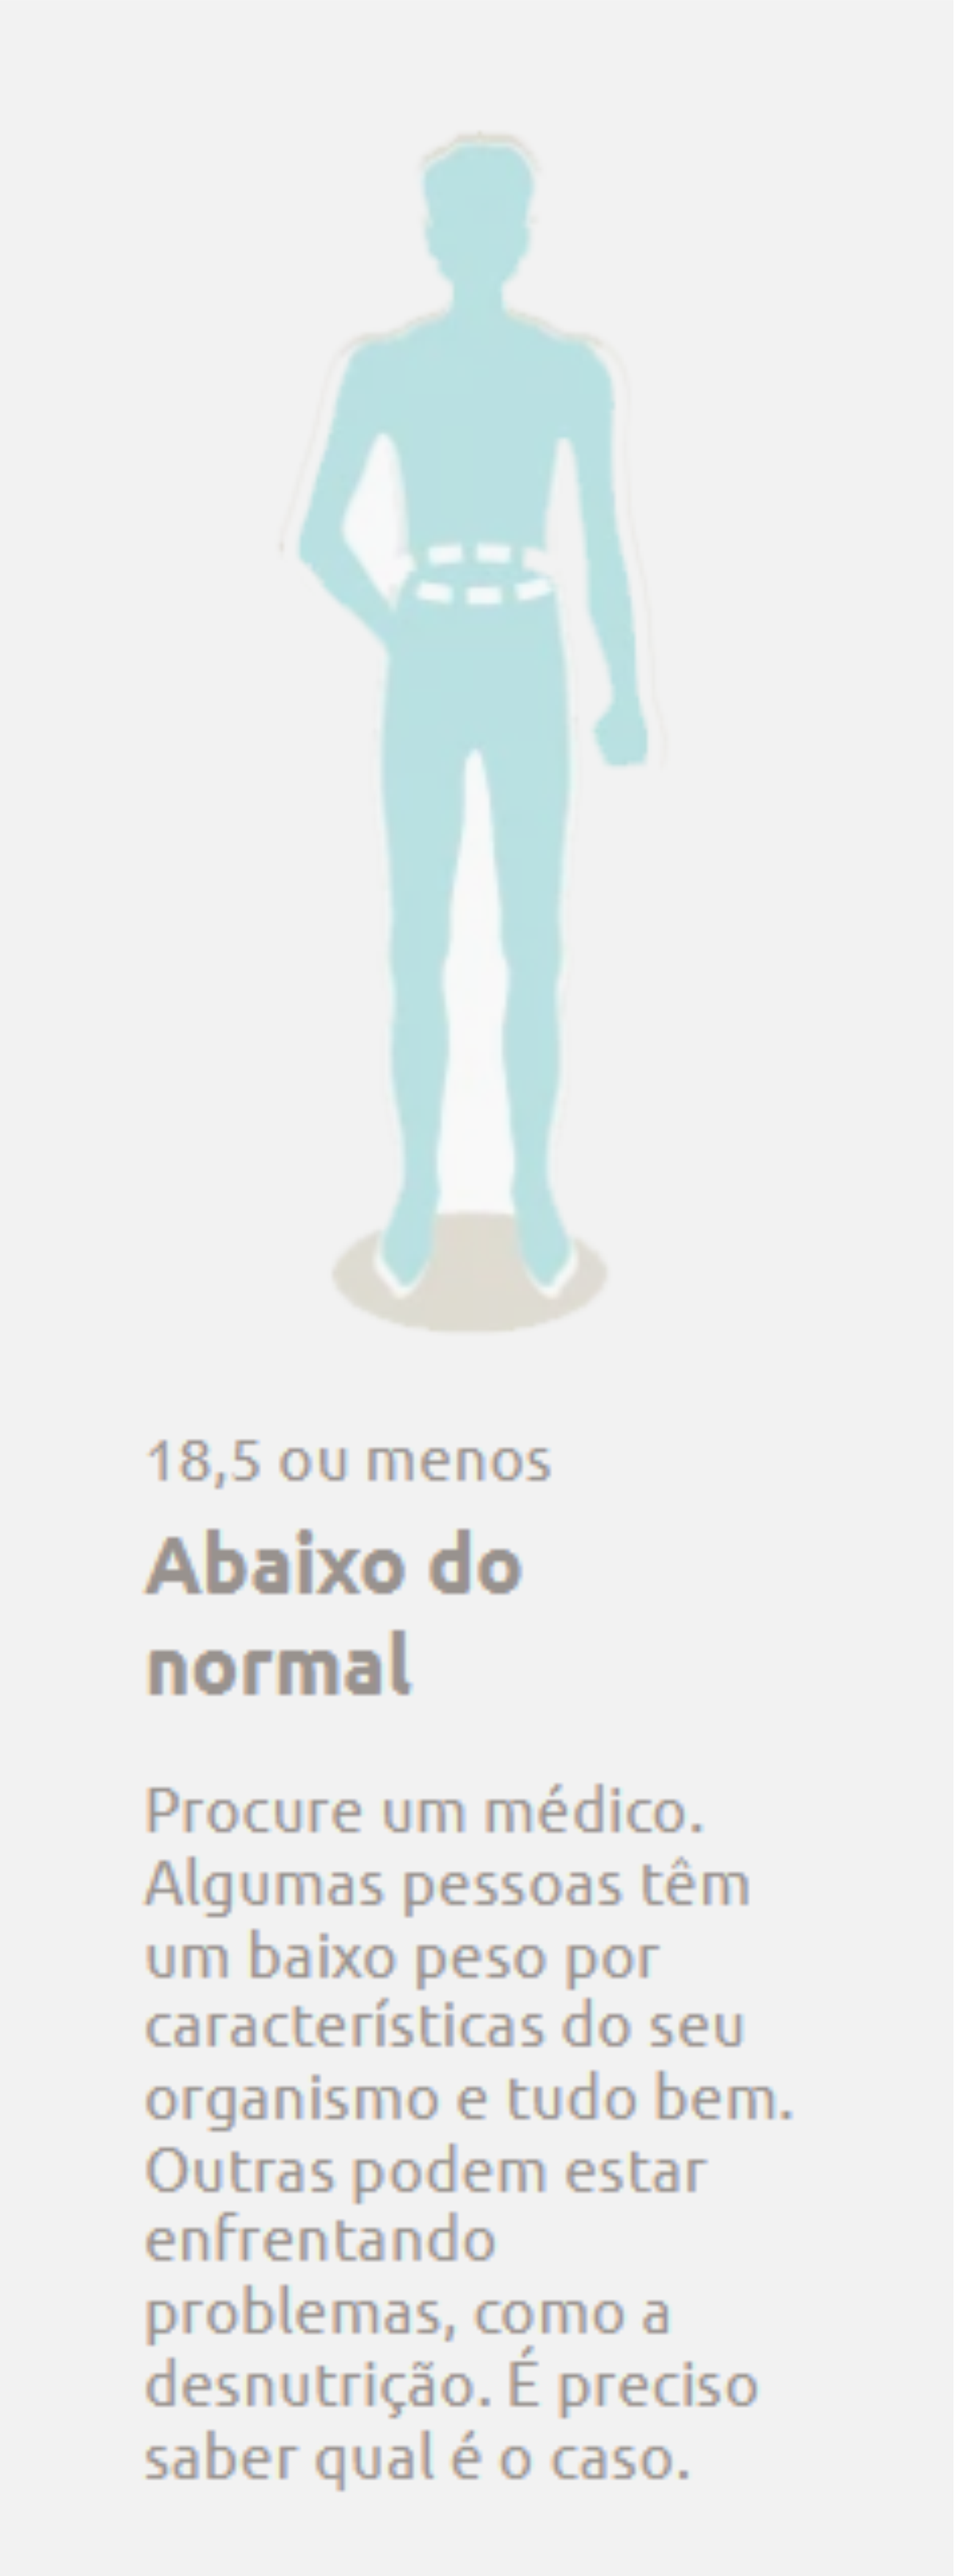
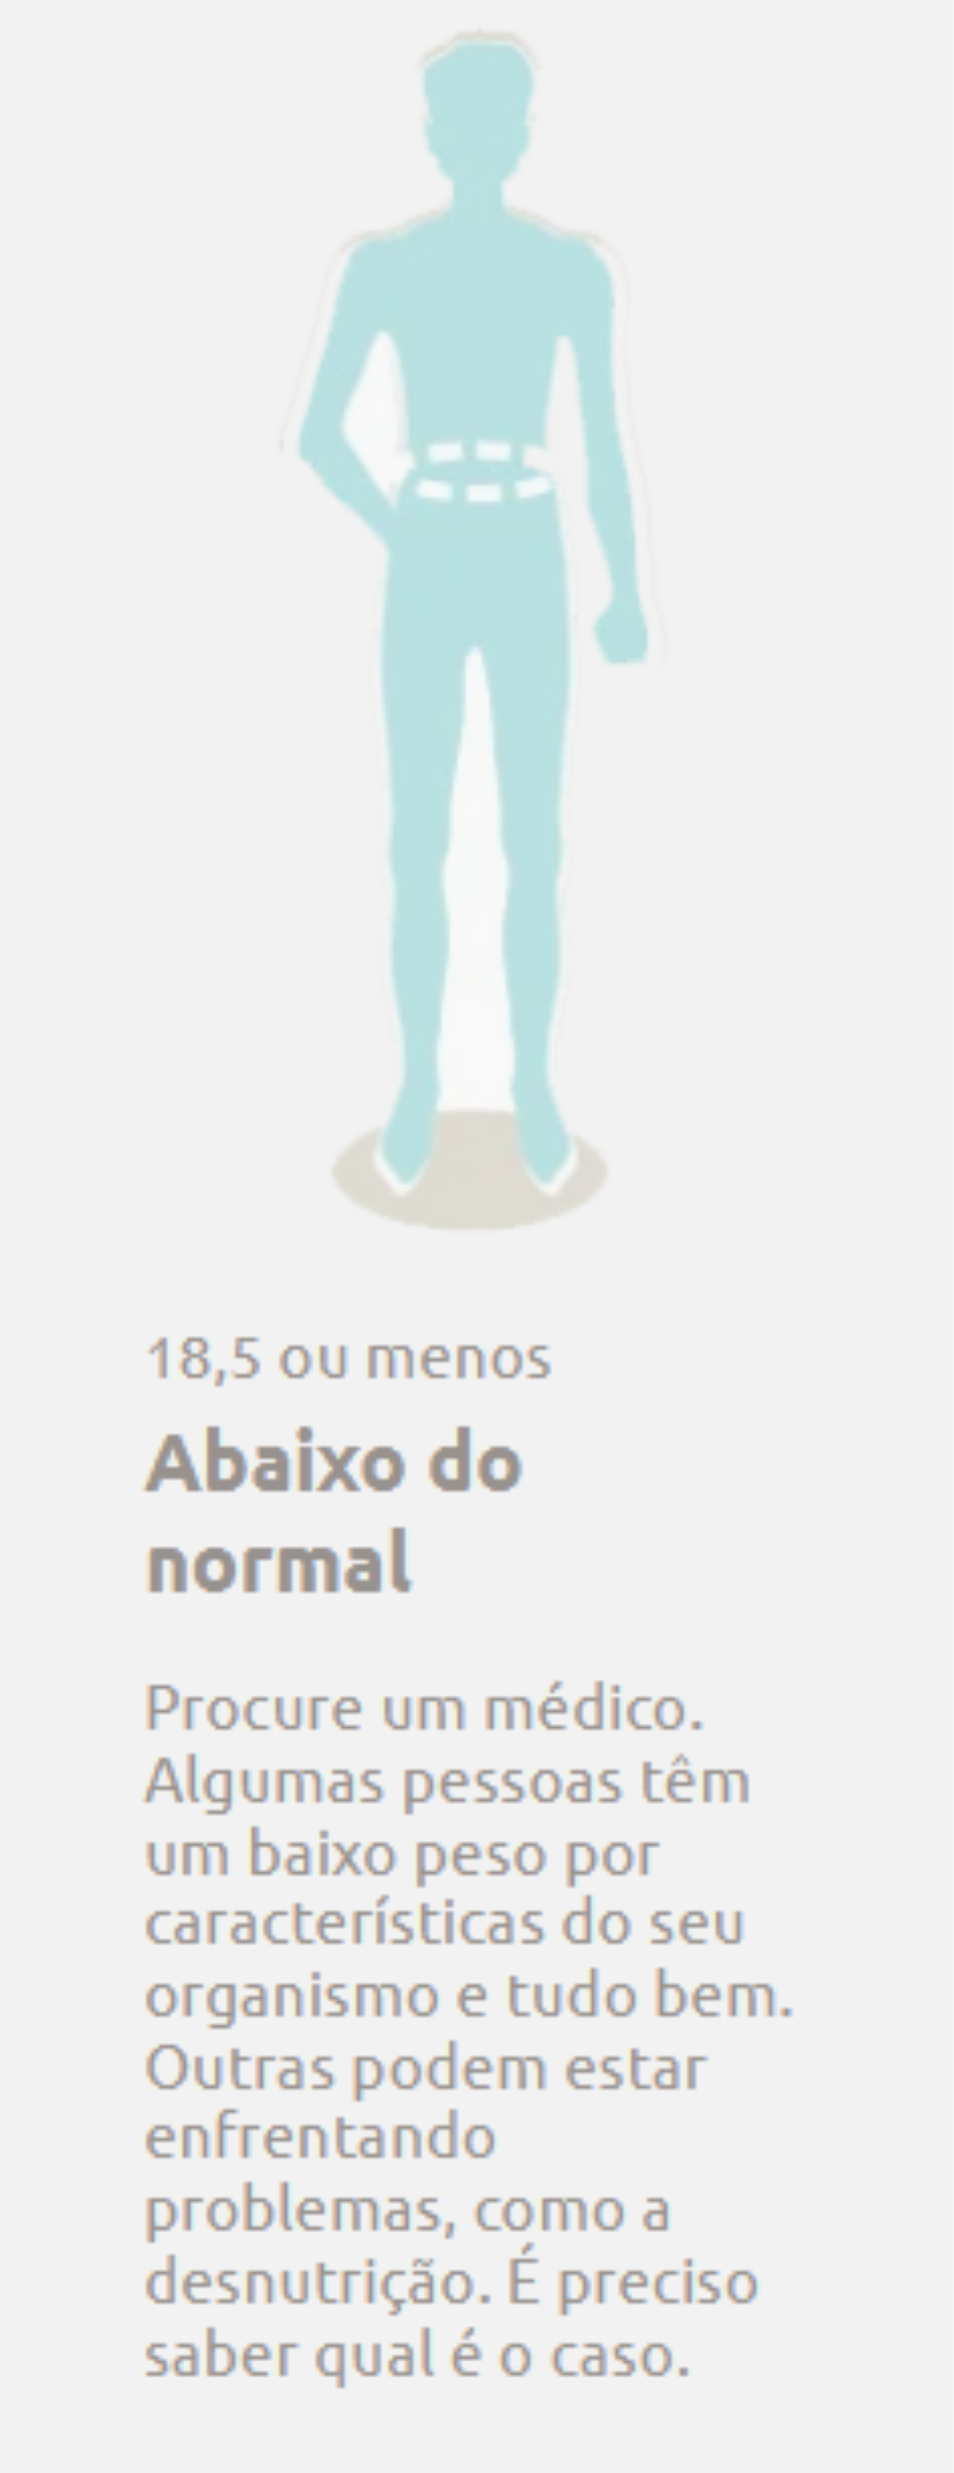
aqui ta bom

Changed region(s): [[0.1538, 0.0, 0.8308, 0.9662], [0.4, 0.2805, 0.4308, 0.3117]]

diff --git a/script.js b/script.js
@@ -2,6 +2,17 @@
 var altt = document.querySelector('#ialt')
 var pesot = document.querySelector('#ipeso')
 var idadet = document.querySelector('#iidade')
+var imagens = document.querySelector('#imagens')
+var section = document.querySelector('#sec2')
+var main2 = document.querySelector('#main2')
+//Imagens
+var abaixo = 'Imagens/abaixo.png'
+var normal = 'Imagens/normal.png'
+var sobrepes = 'Imagens/sobrepes.png'
+var obes1 = 'Imagens/obes-1.png'
+var obes2 = 'Imagens/obes-2.png'
+var obes3 = 'Imagens/obes-3.png'
+
 
 
 function saude(){
@@ -10,6 +21,7 @@ function saude(){
     var idade = Number(idadet.value)
     res2.style.display = "block" 
     res2.innerHTML = ''
+
 
     if((alt || peso) <= 0 || idade > 120){
         res2.innerHTML +=`Insira um valor válido.`
@@ -24,21 +36,38 @@ function saude(){
         if(imc >= 40 ){
             resultado = 'Obesidade Grau III'
             res2.innerHTML += `O peso ideal seria entre <span class="verm">${pesoi1.toFixed(1)} Kg</span> e <span class="verm">${pesoi2.toFixed(1)} Kg</span>.`
+
+            imagens.style.backgroundImage = 'url('+obes3+')'
+
         } else if (imc >= 35){
             resultado = 'Obesidade Grau II'
             res2.innerHTML += `O peso ideal seria entre <span class="verm">${pesoi1.toFixed(1)} Kg</span> e <span class="verm">${pesoi2.toFixed(1)} Kg</span>.`
+
+            imagens.style.backgroundImage = 'url('+obes2+')'
+
         } else if (imc >= 30){
             resultado = 'Obesidade Grau I'
             res2.innerHTML += `O peso ideal seria entre <span class="verm">${pesoi1.toFixed(1)} Kg</span> e <span class="verm">${pesoi2.toFixed(1)} Kg</span>.`
+
+            imagens.style.backgroundImage = 'url('+obes1+')'
+
         } else if (imc >= 25){
             resultado = 'Sobrepeso'
             res2.innerHTML += `O peso ideal seria entre <span class="verm">${pesoi1.toFixed(1)} Kg</span> e <span class="verm">${pesoi2.toFixed(1)} Kg</span>.`
+
+            imagens.style.backgroundImage = 'url('+sobrepes+')'
+
         } else if (imc >= 18.5){
             resultado = 'Peso Normal'
+
+            imagens.style.backgroundImage = 'url('+normal+')'
 
         } else if (imc < 18.5){
             resultado = 'Baixo Peso'
             res2.innerHTML += `<p>O peso ideal seria entre <span class="verm">${pesoi1.toFixed(1)}Kg</span> e <span class="verm">${pesoi2.toFixed(1)}Kg</span>.</p>`
+
+            imagens.style.backgroundImage = 'url('+abaixo+')'
+
         }
 
         res2.innerHTML += `<p id="p_res2">Seu <a href="https://pt.wikipedia.org/wiki/Índice_de_massa_corporal" target="_blank">IMC</a> é: ${imc.toFixed(1)} - ${resultado}</p>`
@@ -61,6 +90,14 @@ function saude(){
             res2.innerHTML += `<p>Você deve beber <strong>${aguaJ.toFixed(1)}</strong> litros de água por dia.</p>`
         }
         
+        //Posicionar itens 
+        imagens.style.display = "block"
+        section.style.float = "left"
+        section.style.marginRight = "10px"
+        main2.style.height = "420px"
+
+
+
     }
 
 }

diff --git a/style.css b/style.css
@@ -19,15 +19,35 @@ body{
     width: fit-content;
     color: white;
     background-color: rgba(0, 0, 0, 0.466);
-    padding: 30px;
+    padding: 20px;
     border-radius: 8px;
 
+
+    
 }
 
 section{
     width: fit-content;
-    margin: auto;
+    margin-inline: auto;
     text-align: right;
+    margin: ;
+
+    position: relative;
+
+}
+
+#imagens{
+    width: 130px;
+    height: 350px;
+    border: solid 1px;
+
+    background-color: white;
+    border-radius: 5px;
+    display: none;
+    float: right;
+
+    background-size: cover;
+    
 }
 
 
@@ -66,6 +86,9 @@ label{
     margin-top: 20px;
     padding: 10px;
     display: none;
+    width: fit-content;
+    max-width: 85%;
+    margin-inline: auto;
 }
 
 

diff --git a/index.html b/index.html
@@ -27,13 +27,15 @@
                 Idade:
                 <input type="number" id="iidade" class="escrever" placeholder="anos">
             </label>
+            
+            <input type="button" value="Calcular" class="botao" onclick="saude()">
         </section>
 
-        <input type="button" value="Calcular" class="botao" onclick="saude()">
+        <div id="imagens"></div>
 
-        <div id="res2" class="res"></div>
     </main>
-    <div id="imagens"></div>
+    <div id="res2" class="res"></div>
+    
     
     
     <script src="script.js"></script>
